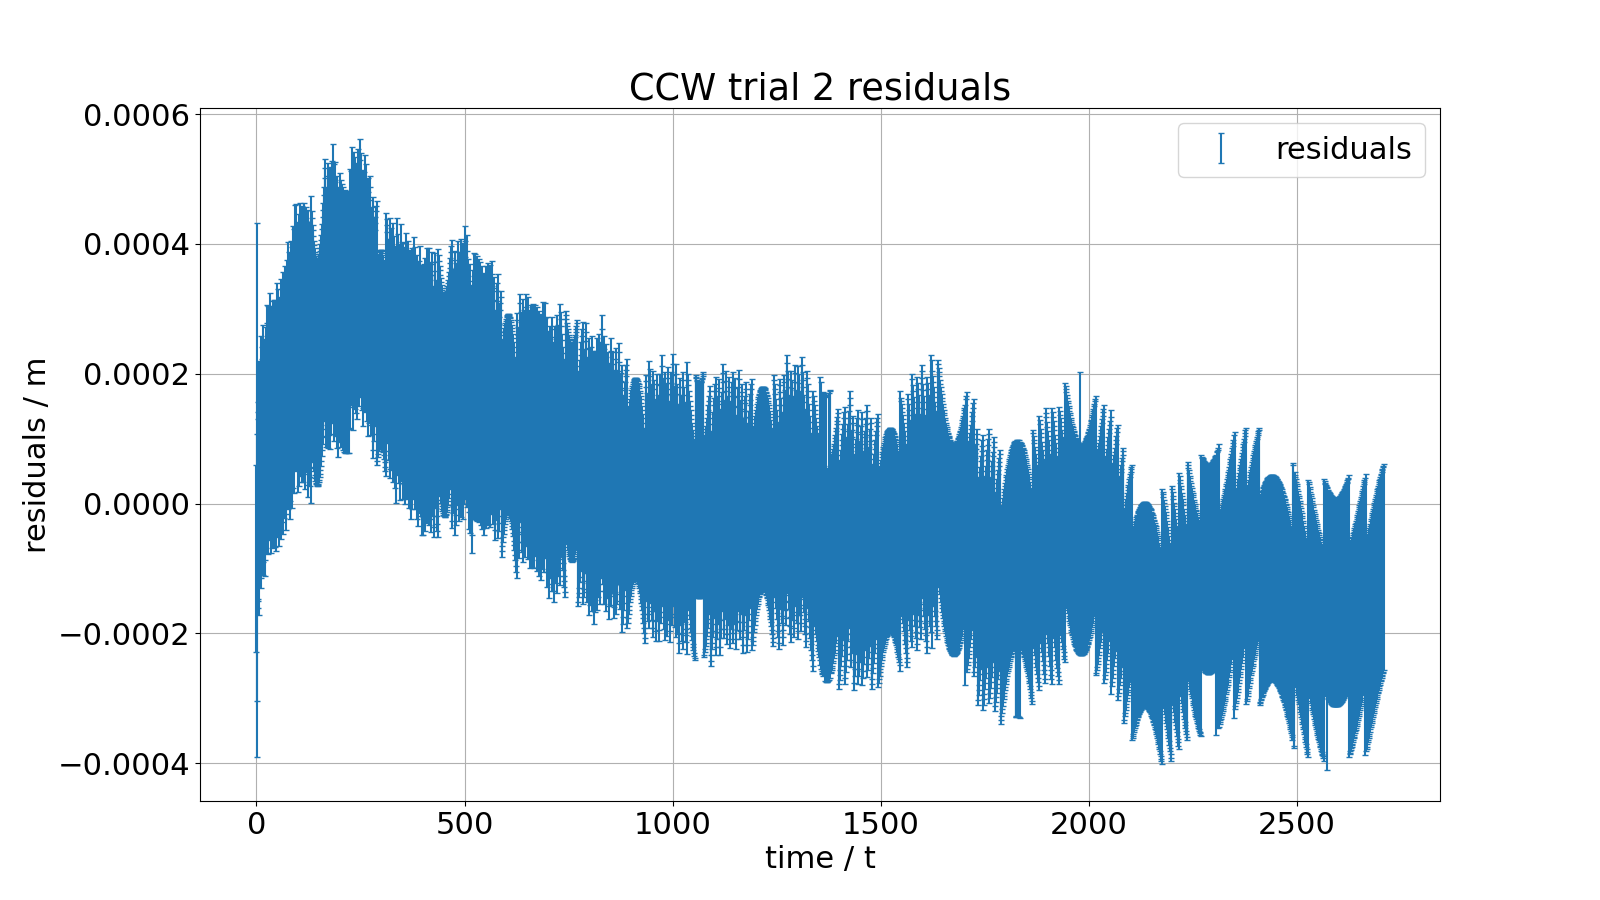
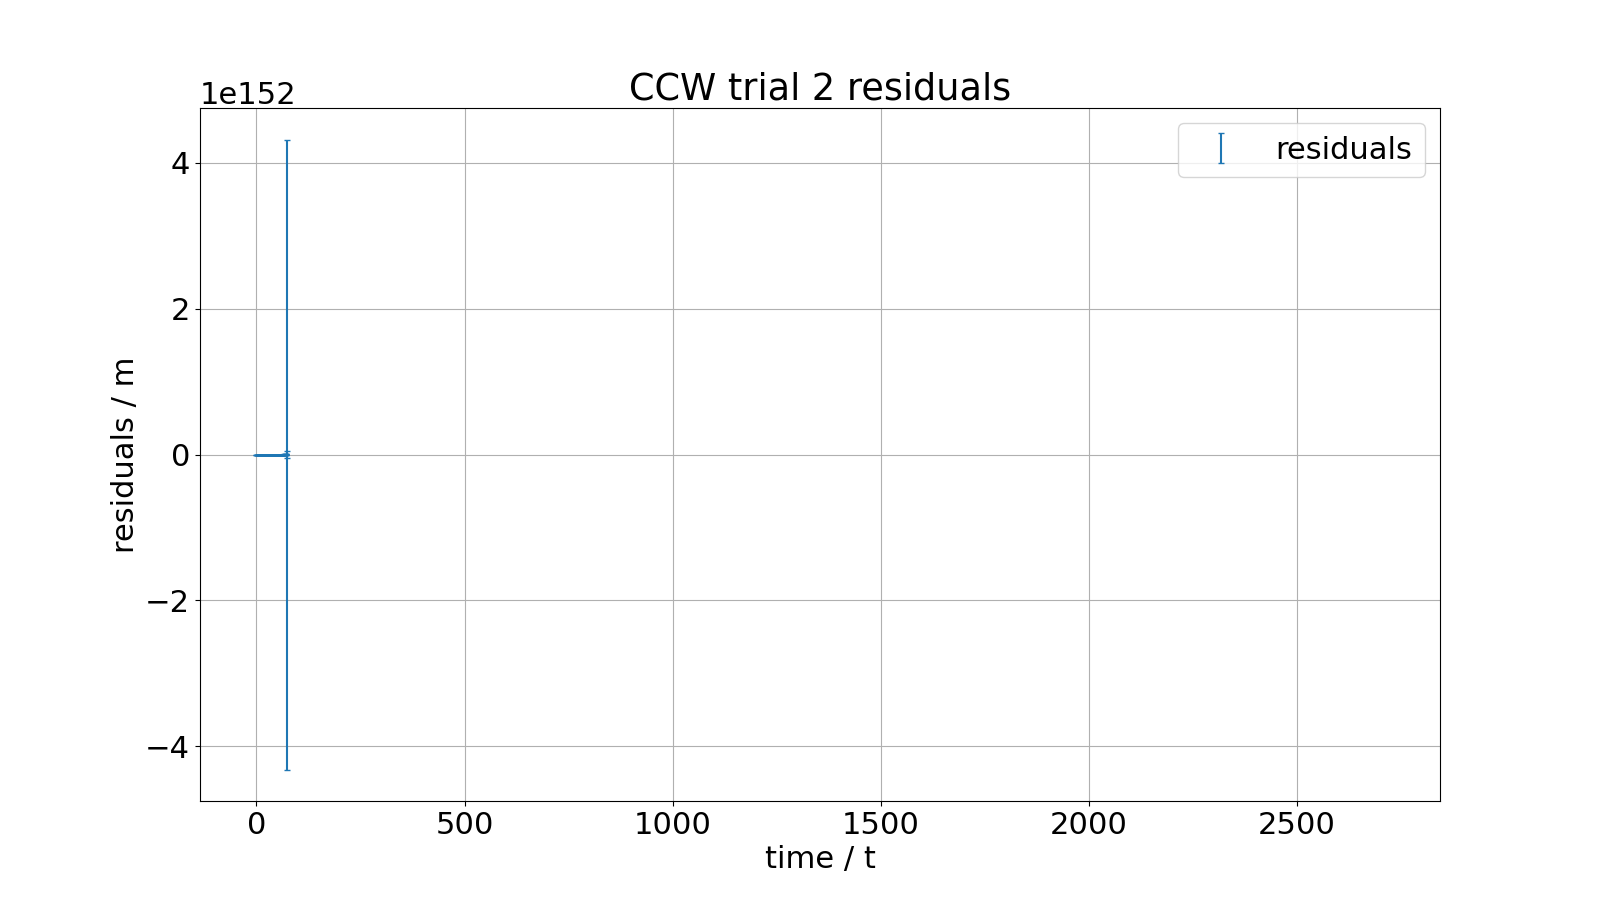
fixed uncertainty outputting, changed back to x instead of theta in data loading and plots

diff --git a/data_loader.py b/data_loader.py
@@ -17,18 +17,11 @@ class DataLoader():
         raw_times = [time.split(':') for time in self.full_data[0][start_sample:]]
         raw_times = np.array([float(h) * 3600 + float(m) * 60 + float(s) for [h, m, s] in raw_times])
 
-        l_best_guesses = np.array([4.443, 4.442, 4.441, 4.453, 4.455])
-        l_uncertainties = np.zeros_like(l_best_guesses) + 0.0005
-
-        (l_best_guess, l_uncertainty) = ErrorPropagation.average(l_best_guesses, l_uncertainties)
 
         self.zeroed_times = cff.remove_systematic_error(raw_times)
-        self.approximate_angles = raw_positions / (2 * l_best_guess)
         
-        self.y = self.approximate_angles
-        fractional_errors_in_position = 0.0005 / raw_positions
-        fractional_error_in_l = l_uncertainty / l_best_guess
-        self.y_error = np.sqrt(fractional_errors_in_position**2 + fractional_error_in_l) * self.y
+        self.y = raw_positions
+        self.y_error = np.zeros_like(raw_positions) + 0.0005
         
         self.x = self.zeroed_times
         self.x_error = np.zeros_like(self.zeroed_times) + 0.0005

diff --git a/fitting_and_analysis.py b/fitting_and_analysis.py
@@ -1,5 +1,4 @@
 import numpy as np
-import math
 import scipy.stats as spstats
 from decimal import Decimal
 
@@ -59,14 +58,11 @@ class Output():
         ax.errorbar(x, y, yerr=yerr, xerr=xerr, linestyle='None', capsize=2, marker='.', **kwargs)
 
     def get_dp(self, num): # returns number of decimal places
-        if type(num) == float:
-            decimal = Decimal(str(num))
-            if decimal.as_tuple().exponent >= 0:
-                dp = -int(np.log10(num))
-            else:
-                dp = -decimal.as_tuple().exponent
+        decimal = Decimal(str(num))
+        if decimal.as_tuple().exponent >= 0:
+            dp = -int(np.log10(num))
         else:
-            dp = 9
+            dp = -decimal.as_tuple().exponent
         return dp
 
     def to_sf(self, num, sf=3):

diff --git a/main.py b/main.py
@@ -32,7 +32,7 @@ def run_main(filename, show=False, save=False):
 
     ax.set_title(plot_title)
     ax.grid(visible=True, which='both')
-    ax.set_ylabel(r'$\theta$ / rad')
+    ax.set_ylabel(r'x / m')
     ax.set_xlabel(r'time / t')
     
     if save:
